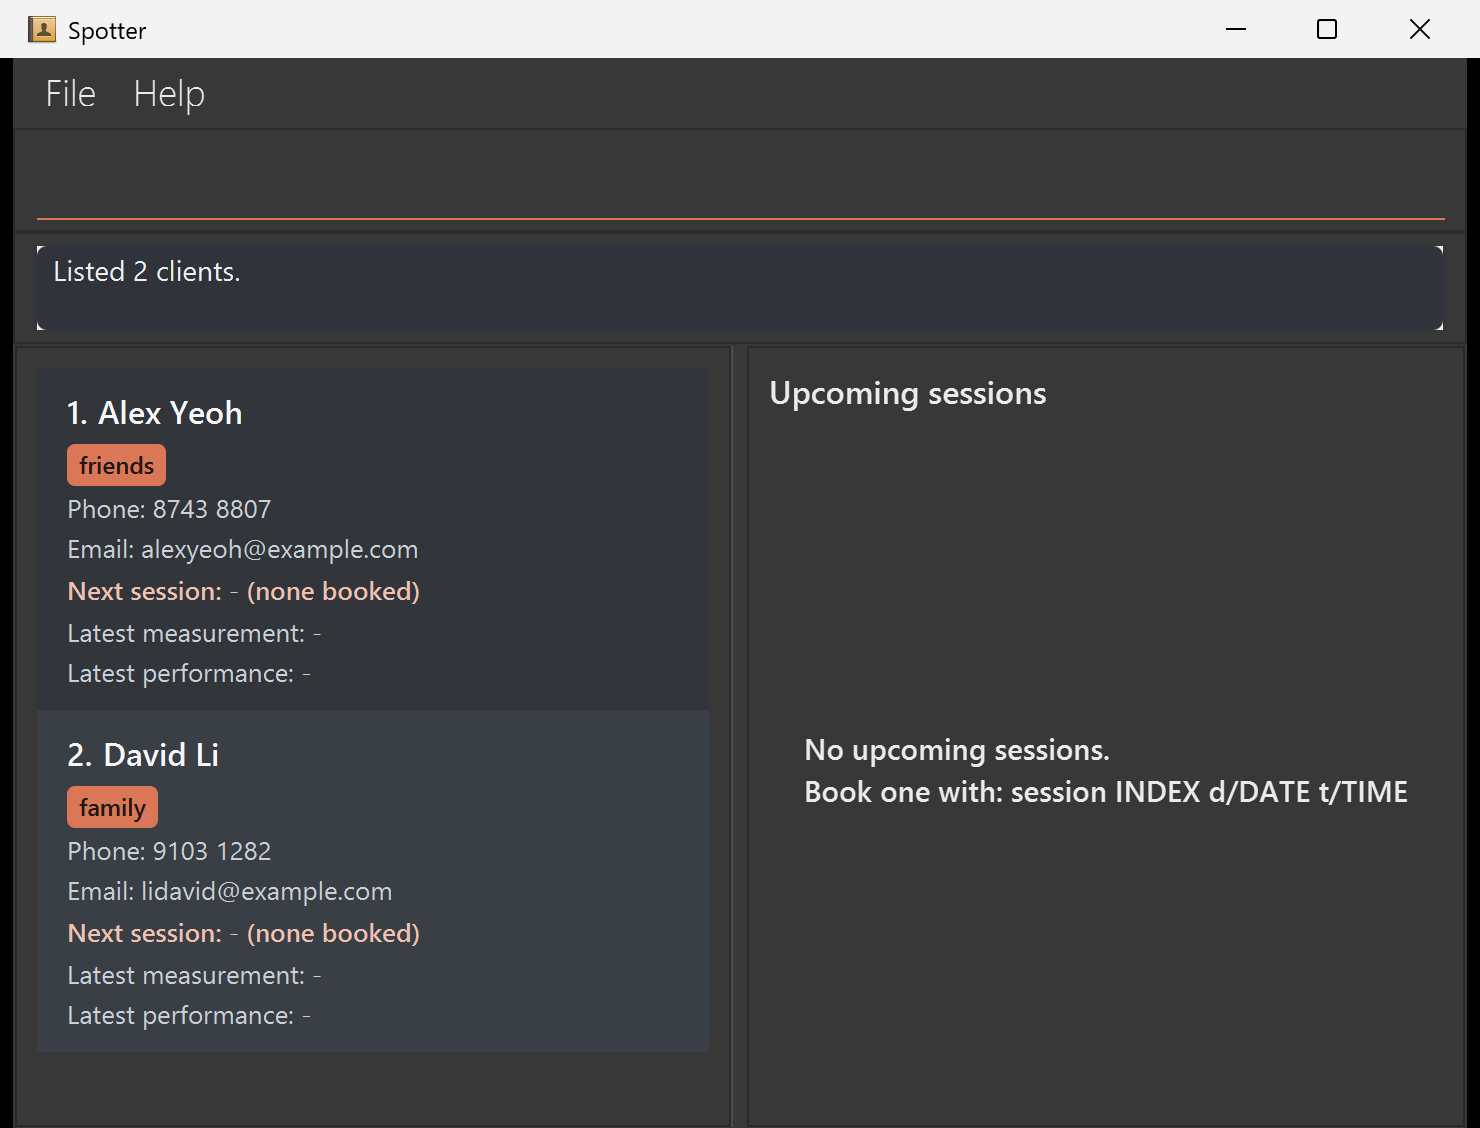
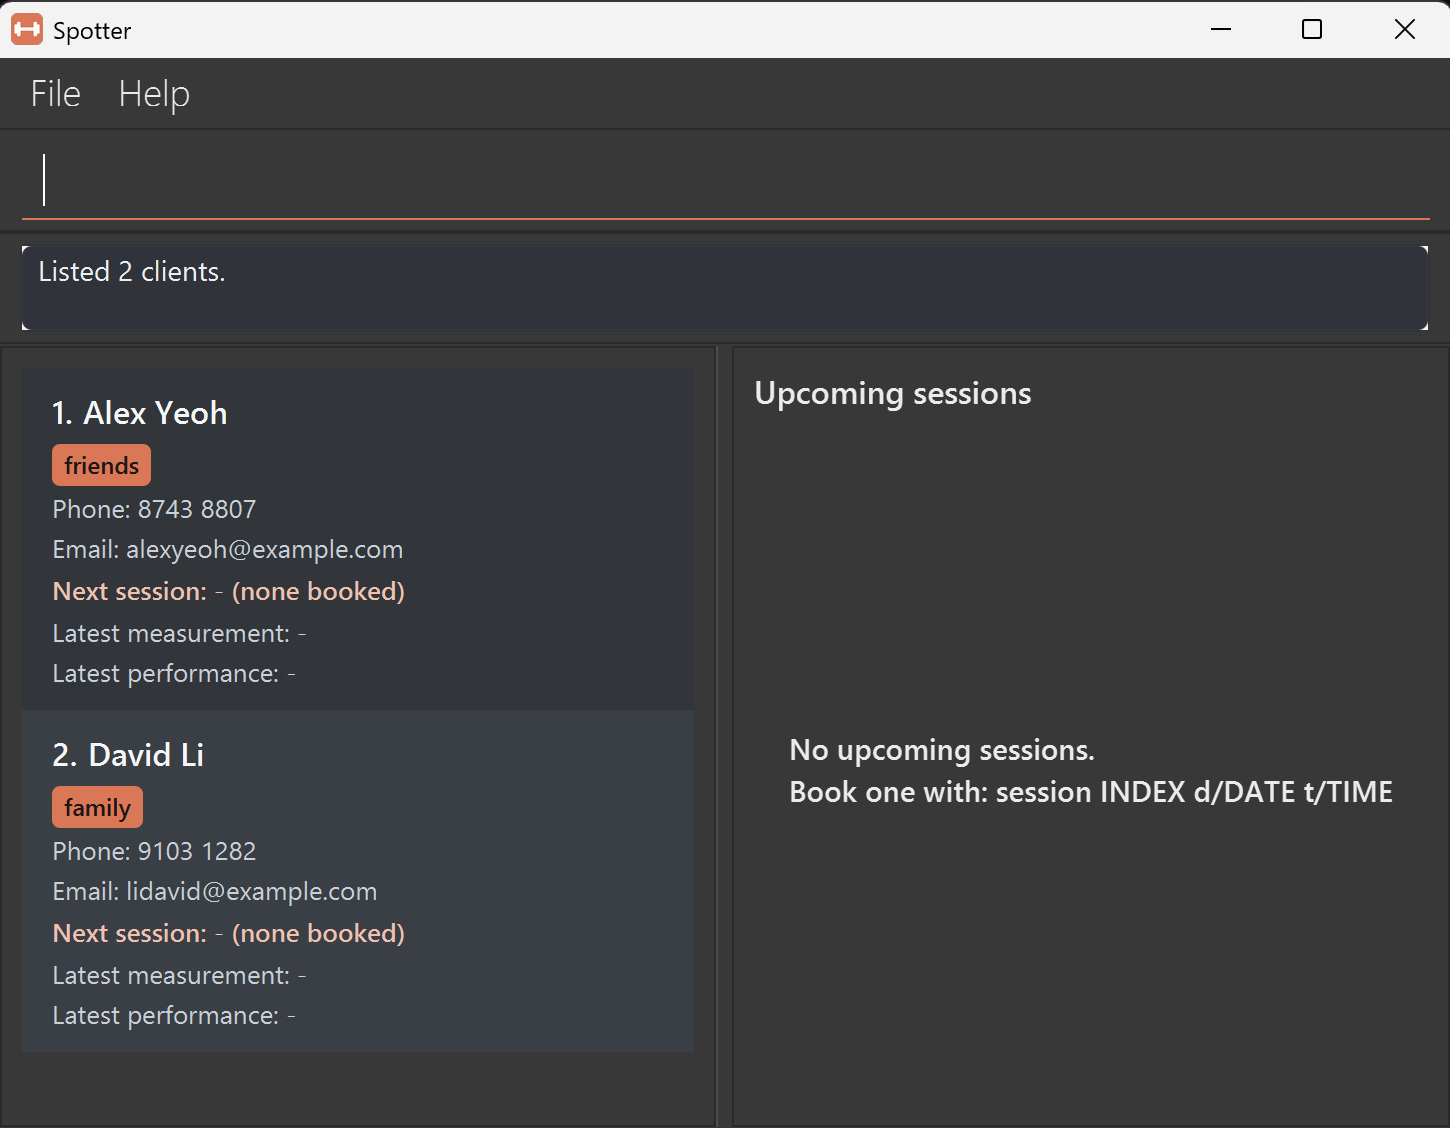
Fix docs issues found in beta testing
The DG manual test for edit after find now expects the index-change note the app prints. UG known issue 2 now describes the startup warnings that Java 25 prints on every launch. findAlexDavidResult.png is retaken so it shows the Spotter window icon.

diff --git a/docs/UserGuide.md b/docs/UserGuide.md
@@ -808,7 +808,7 @@ You do not need to delete `preferences.json` after disconnecting a monitor.
 ## Known issues
 
 1. **Unrecognized prefixes in `filter` are not reported**: text such as `x/1` that uses a prefix Spotter doesn't support is treated as part of the tag before it. For example, `filter t/rehab x/1` reports an invalid tag. The remedy is to remove the unsupported prefix. The other commands that take prefixes already report such a prefix as an invalid command format.
-2. **Warnings when launching from a terminal**: on some Java setups, such as JDKs that bundle JavaFX (e.g. Zulu FX), `java -jar spotter.jar` prints `WARNING` lines about a restricted method and enabling native access. These come from JavaFX loading its native libraries. They are harmless, and Spotter works normally.
+2. **Warnings when launching from a terminal**: with Java 25, `java -jar spotter.jar` prints several warning lines on every launch, before and after the window opens. They include `Unsupported JavaFX configuration: classes were loaded from 'unnamed module ...'`, lines about a restricted method in `java.lang.System` and enabling native access, and lines about a terminally deprecated method in `sun.misc.Unsafe`. These come from the JavaFX library bundled in the JAR. They are harmless, and Spotter works normally.
 
 --------------------------------------------------------------------------------------------------------------------
 

diff --git a/docs/DeveloperGuide.md b/docs/DeveloperGuide.md
@@ -1462,10 +1462,11 @@ Start from the sample data.
 Continue from the previous section.
 
 1. Enter `find sarah`, then `edit 1 p/9876 5432 t/`.<br>
-   Expected: `Edited client: Sarah Lim; Phone: 9876 5432; Email: sarah@example.com`. Her `rehab` tag is removed.
-   After a successful edit, the list shows all clients again.
+   Expected: `Edited client: Sarah Lim; Phone: 9876 5432; Email: sarah@example.com`, followed by
+   `The client list order has changed; check the index numbers before your next command.` Her `rehab` tag is removed.
+   After a successful edit, the list shows all clients again, so Sarah is no longer at index 1.
 1. Enter `find sarah`, then `edit 1 e/`.<br>
-   Expected: `Edited client: Sarah Lim; Phone: 9876 5432`. Her card shows `Email: -`.
+   Expected: `Edited client: Sarah Lim; Phone: 9876 5432`, followed by the same index note. Her card shows `Email: -`.
 1. Enter `find sarah`, then `edit 1` and `edit 1 n/Marcus Tan`.<br>
    Expected: `At least one field to edit must be provided.`, then `Another client already has this name. Names are compared ignoring letter case and extra spaces. Use "find NAME" to check the existing client.`
    Sarah's details are unchanged.
